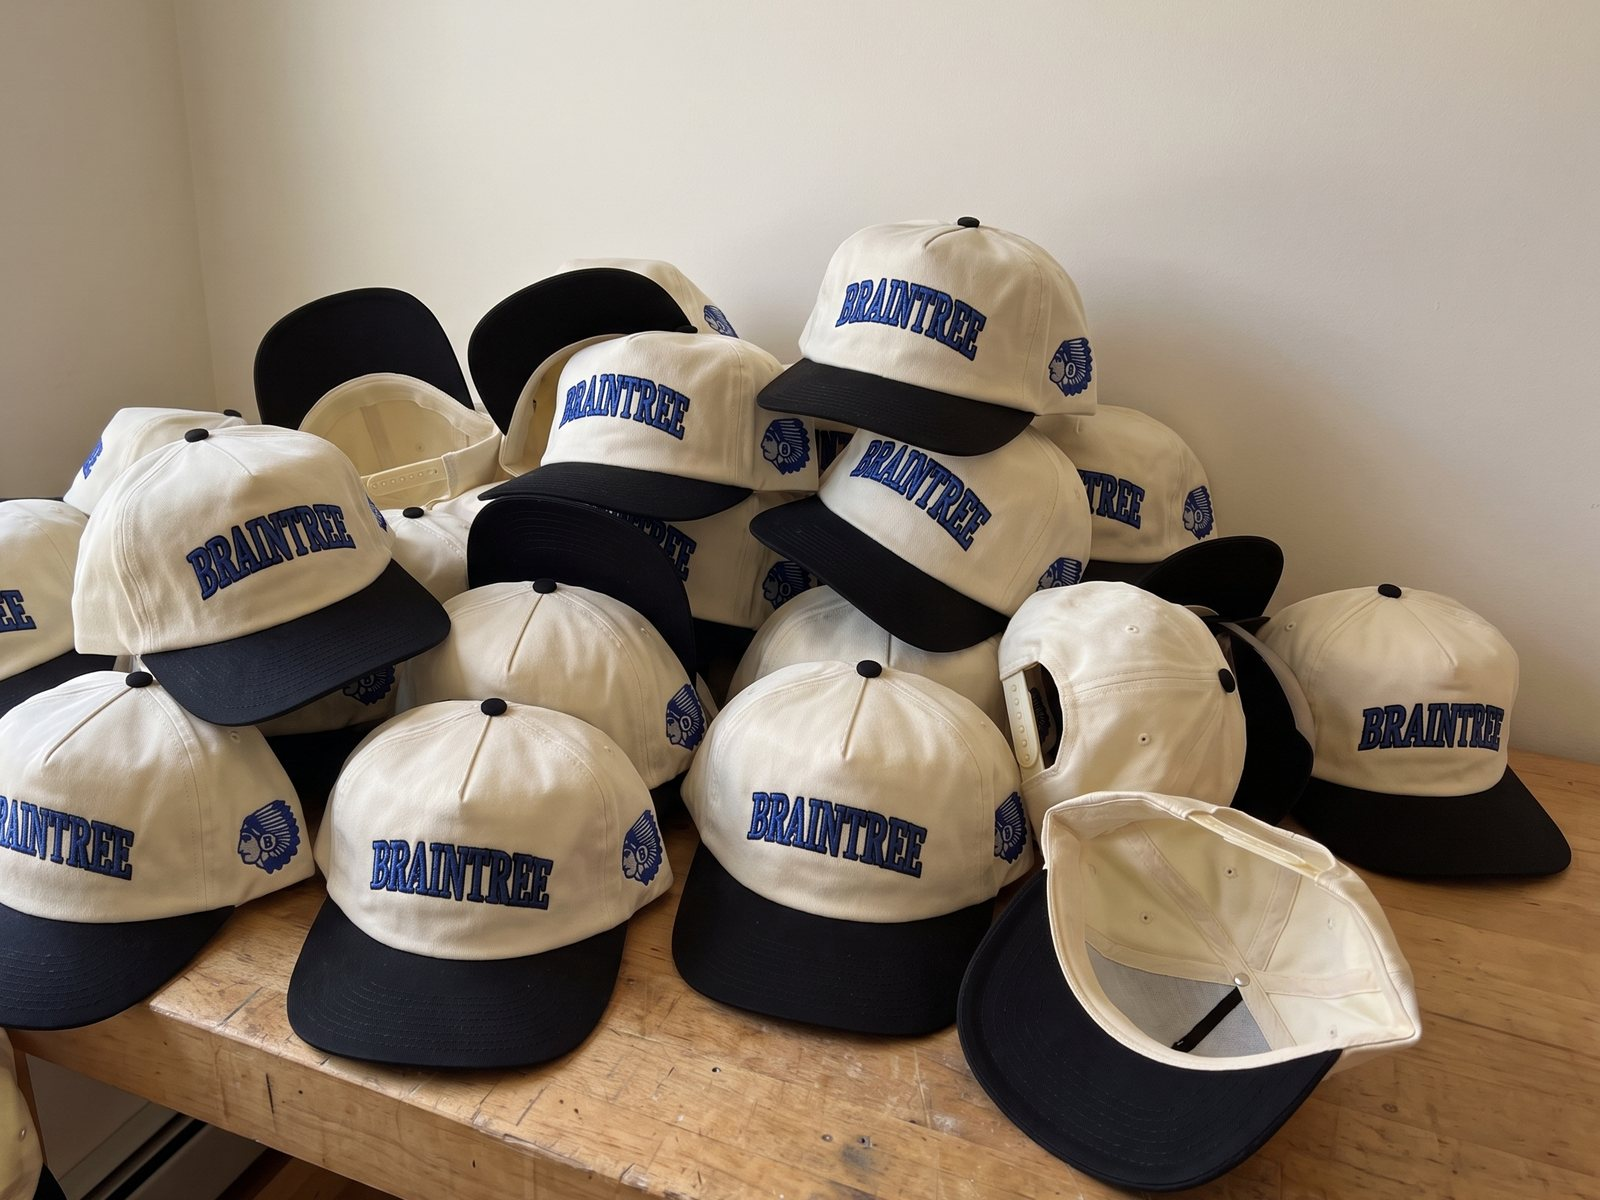
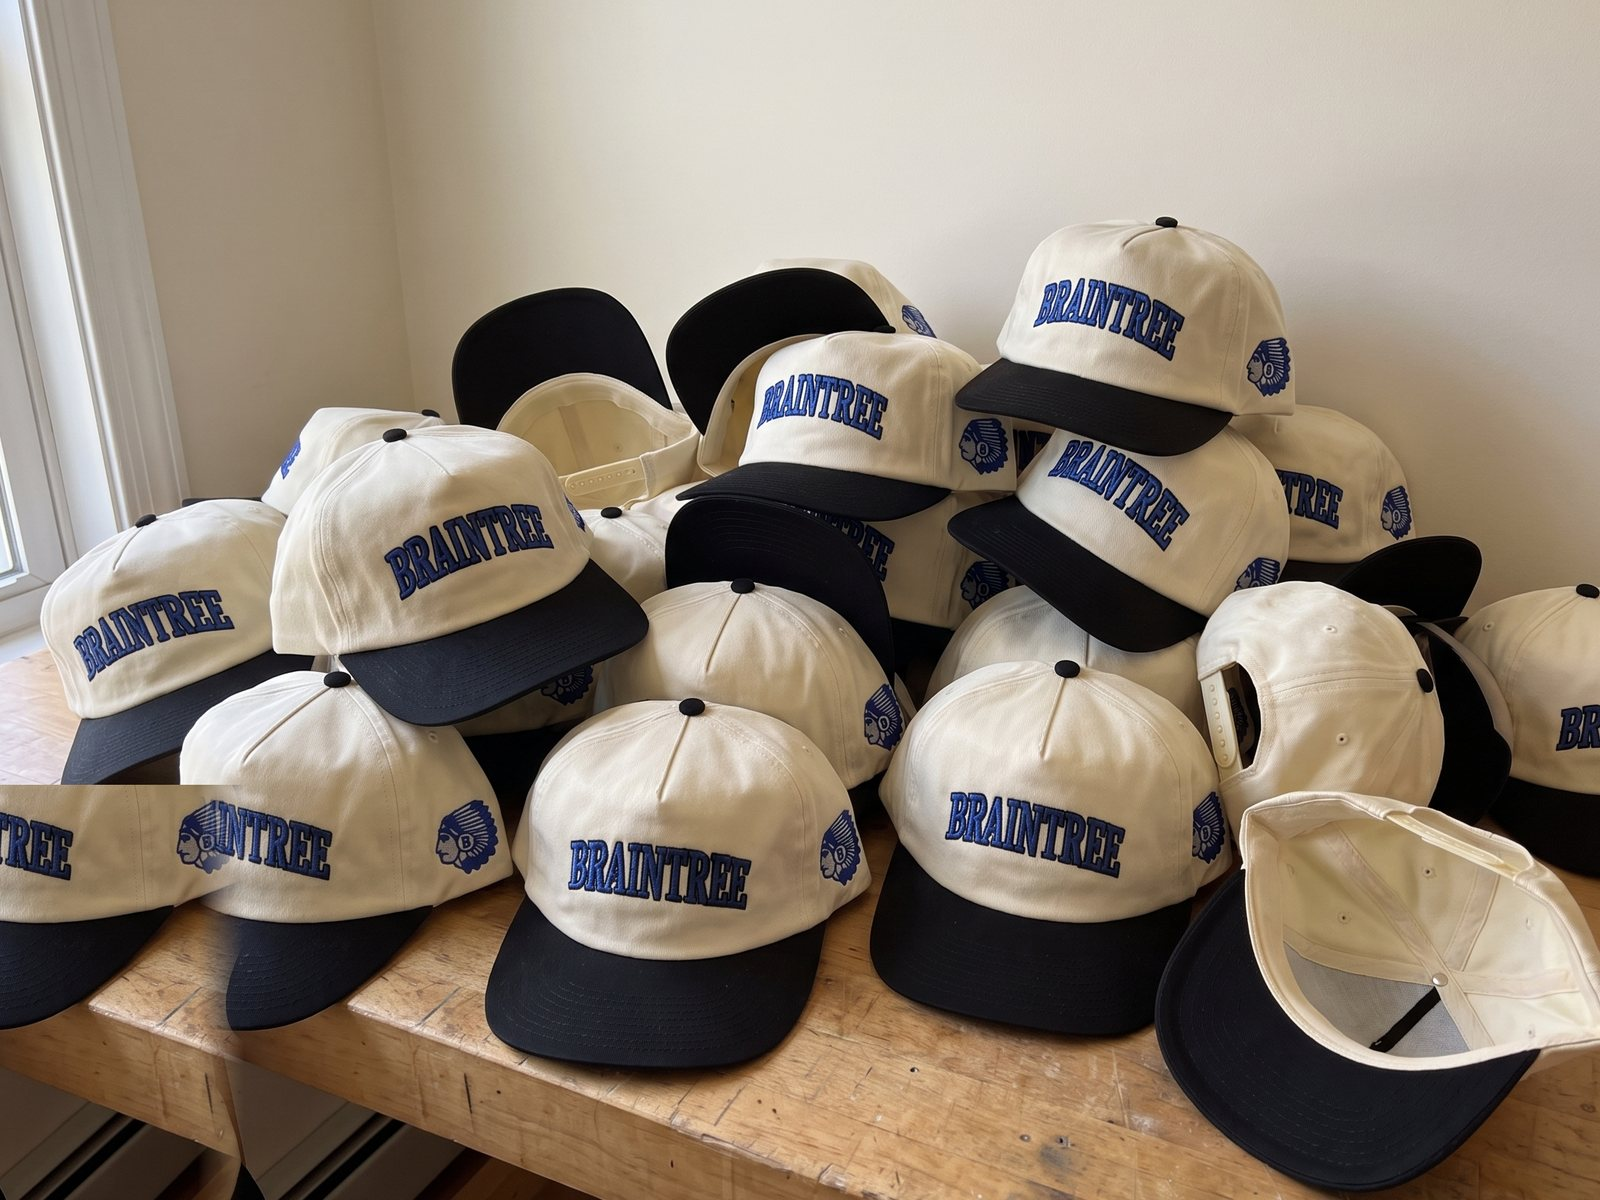
Homepage: region cards become a one-row rail; bulk photo recropped left

diff --git a/components/townies/region-band.tsx b/components/townies/region-band.tsx
@@ -1,6 +1,5 @@
-import Link from 'next/link';
 import { BrandPattern } from './brand-pattern';
-import { MaMark } from '@/components/brand/wordmark';
+import { RegionRail, type RegionCard } from './region-rail';
 import { groupByRegion, groupByTown, regionHref } from '@/lib/townies/towns';
 import type { CollectionProduct } from '@/lib/shopify/collections';
 
@@ -8,10 +7,9 @@ import type { CollectionProduct } from '@/lib/shopify/collections';
  * Shop by region.
  *
  * The catalogue is organised by Massachusetts region and will be for good —
- * every town, eventually, filed under its coast or its county. Until now the
- * regions were listed in the footer and nowhere else. This is the map, as a
- * band: one card per live region carrying its towns, and a last card for the
- * town that isn't here yet.
+ * every town, eventually, filed under its coast or its county. This is the
+ * map, as a band: one card per live region carrying its towns, and a last card
+ * for the town that isn't here yet, in a single scrolling row.
  *
  * Type-led on purpose. No region has been photographed as a region, and a
  * card promising the South Shore over a stock harbour is the thing the brand
@@ -23,72 +21,32 @@ export function RegionBand({ products }: { products: CollectionProduct[] }) {
   const groups = groupByRegion(groupByTown(products)).filter((g) => g.towns.length > 0);
   if (groups.length === 0) return null;
 
+  const cards: RegionCard[] = groups.map((g) => {
+    const shown = g.towns.slice(0, MAX_TOWNS).map((t) => t.name).join(' · ');
+    const more = g.towns.length - MAX_TOWNS;
+    return {
+      key: g.region,
+      href: regionHref(g.region),
+      title: g.label,
+      count: `${g.towns.length} ${g.towns.length === 1 ? 'town' : 'towns'}`,
+      body: more > 0 ? `${shown} · +${more} more` : shown,
+      cta: `Shop ${g.label}`,
+    };
+  });
+  cards.push({
+    key: 'request',
+    href: '/request-a-town',
+    title: 'Your town',
+    body: 'Not on the map yet? Every request gets counted, and the loudest towns get made first.',
+    cta: 'Request it',
+    dashed: true,
+  });
+
   return (
     <section className="relative overflow-hidden bg-town-navy">
       <BrandPattern variant="topo" color="cream" opacity={0.07} size={260} />
       <div className="relative max-w-7xl mx-auto px-4 sm:px-8 py-14 sm:py-20">
-        <div className="flex items-end justify-between gap-4 mb-8 sm:mb-10">
-          <div>
-            <p className="text-[0.625rem] uppercase tracking-[0.22em] font-medium text-town-cream/70 mb-2">
-              Shop by region
-            </p>
-            <h2 className="font-block font-bold uppercase text-2xl sm:text-3xl leading-none tracking-[0.015em] text-white">
-              Where are you from?
-            </h2>
-          </div>
-          <Link
-            href="/shop"
-            className="hidden sm:inline-block shrink-0 text-[0.6875rem] uppercase tracking-[0.18em] underline underline-offset-[6px] decoration-1 text-town-cream/85 hover:text-white transition-colors"
-          >
-            Every town
-          </Link>
-        </div>
-
-        <div className="grid gap-4 sm:grid-cols-2 lg:grid-cols-3">
-          {groups.map((g) => {
-            const shown = g.towns.slice(0, MAX_TOWNS);
-            const more = g.towns.length - shown.length;
-            return (
-              <Link
-                key={g.region}
-                href={regionHref(g.region)}
-                className="group flex flex-col rounded-sm border border-town-cream/15 bg-town-cream/[0.04] p-5 sm:p-6 transition-colors hover:bg-town-cream/[0.09] hover:border-town-cream/30"
-              >
-                <div className="flex items-center justify-between gap-3 mb-4">
-                  <h3 className="font-block font-bold uppercase text-lg sm:text-xl leading-none tracking-[0.015em] text-white">
-                    {g.label}
-                  </h3>
-                  <span className="text-[0.625rem] uppercase tracking-[0.18em] text-town-cream/60">
-                    {g.towns.length} {g.towns.length === 1 ? 'town' : 'towns'}
-                  </span>
-                </div>
-                <p className="text-sm leading-relaxed text-town-cream/80">
-                  {shown.map((t) => t.name).join(' · ')}
-                  {more > 0 && <span className="text-town-cream/55"> · +{more} more</span>}
-                </p>
-                <span className="mt-auto pt-5 inline-flex items-center gap-2 text-[0.6875rem] uppercase tracking-[0.18em] text-town-cream/85 group-hover:text-white transition-colors">
-                  <MaMark className="h-2 w-auto text-town-forest" />
-                  Shop {g.label}
-                </span>
-              </Link>
-            );
-          })}
-
-          <Link
-            href="/request-a-town"
-            className="group flex flex-col rounded-sm border border-dashed border-town-cream/30 p-5 sm:p-6 transition-colors hover:border-town-cream/60"
-          >
-            <h3 className="font-block font-bold uppercase text-lg sm:text-xl leading-none tracking-[0.015em] text-white mb-4">
-              Your town
-            </h3>
-            <p className="text-sm leading-relaxed text-town-cream/80">
-              Not on the map yet? Every request gets counted, and the loudest towns get made first.
-            </p>
-            <span className="mt-auto pt-5 inline-flex items-center text-[0.6875rem] uppercase tracking-[0.18em] underline underline-offset-[6px] decoration-1 text-town-cream/85 group-hover:text-white transition-colors">
-              Request it
-            </span>
-          </Link>
-        </div>
+        <RegionRail cards={cards} />
       </div>
     </section>
   );

diff --git a/components/townies/region-rail.tsx b/components/townies/region-rail.tsx
@@ -1,0 +1,96 @@
+'use client';
+
+import { useRef } from 'react';
+import Link from 'next/link';
+import { ChevronLeft, ChevronRight } from 'lucide-react';
+import { MaMark } from '@/components/brand/wordmark';
+
+/**
+ * One row of region cards that scrolls sideways — the same rail mechanics as
+ * the product rail. A grid put three cards on one line and the fourth alone
+ * on the next; a rail has no orphan row, and it keeps working as regions are
+ * added.
+ */
+export type RegionCard = {
+  key: string;
+  href: string;
+  title: string;
+  count?: string;
+  body: string;
+  cta: string;
+  /** The dashed "your town" card. */
+  dashed?: boolean;
+};
+
+export function RegionRail({ cards }: { cards: RegionCard[] }) {
+  const rail = useRef<HTMLDivElement>(null);
+  const scroll = (dir: -1 | 1) => {
+    const el = rail.current;
+    if (el) el.scrollBy({ left: dir * el.clientWidth * 0.8, behavior: 'smooth' });
+  };
+
+  return (
+    <>
+      <div className="flex items-end justify-between gap-4">
+        <div className="flex-1">
+          <p className="text-[0.625rem] uppercase tracking-[0.22em] font-medium text-town-cream/70 mb-2">
+            Shop by region
+          </p>
+          <h2 className="font-block font-bold uppercase text-2xl sm:text-3xl leading-none tracking-[0.015em] text-white">
+            Where are you from?
+          </h2>
+        </div>
+        <Link
+          href="/shop"
+          className="hidden sm:inline-block shrink-0 text-[0.6875rem] uppercase tracking-[0.18em] underline underline-offset-[6px] decoration-1 text-town-cream/85 hover:text-white transition-colors"
+        >
+          Every town
+        </Link>
+      <div className="hidden sm:flex items-center gap-2 ml-4">
+        {([-1, 1] as const).map((dir) => (
+          <button
+            key={dir}
+            type="button"
+            onClick={() => scroll(dir)}
+            aria-label={dir === -1 ? 'Scroll left' : 'Scroll right'}
+            className="grid h-8 w-8 place-items-center rounded-full border border-town-cream/30 text-town-cream transition-colors hover:bg-town-cream hover:text-town-navy"
+          >
+            {dir === -1 ? <ChevronLeft size={15} /> : <ChevronRight size={15} />}
+          </button>
+        ))}
+      </div>
+      </div>
+
+      <div
+        ref={rail}
+        className="mt-8 sm:mt-10 -mx-4 sm:-mx-8 flex gap-4 overflow-x-auto snap-x snap-mandatory scroll-px-4 sm:scroll-px-8 px-4 sm:px-8 pb-1 [scrollbar-width:none] [&::-webkit-scrollbar]:hidden"
+      >
+        {cards.map((c) => (
+          <Link
+            key={c.key}
+            href={c.href}
+            className={`group flex w-[78vw] sm:w-[320px] lg:w-[340px] shrink-0 snap-start flex-col rounded-sm p-5 sm:p-6 transition-colors ${
+              c.dashed
+                ? 'border border-dashed border-town-cream/30 hover:border-town-cream/60'
+                : 'border border-town-cream/15 bg-town-cream/[0.04] hover:bg-town-cream/[0.09] hover:border-town-cream/30'
+            }`}
+          >
+            <div className="flex items-center justify-between gap-3 mb-4">
+              <h3 className="font-block font-bold uppercase text-lg sm:text-xl leading-none tracking-[0.015em] text-white">
+                {c.title}
+              </h3>
+              {c.count && (
+                <span className="text-[0.625rem] uppercase tracking-[0.18em] text-town-cream/60">{c.count}</span>
+              )}
+            </div>
+            <p className="text-sm leading-relaxed text-town-cream/80">{c.body}</p>
+            <span className="mt-auto pt-5 inline-flex items-center gap-2 text-[0.6875rem] uppercase tracking-[0.18em] text-town-cream/85 group-hover:text-white transition-colors">
+              {!c.dashed && <MaMark className="h-2 w-auto text-town-forest" />}
+              <span className={c.dashed ? 'underline underline-offset-[6px] decoration-1' : ''}>{c.cta}</span>
+            </span>
+          </Link>
+        ))}
+      </div>
+    </>
+  );
+}
